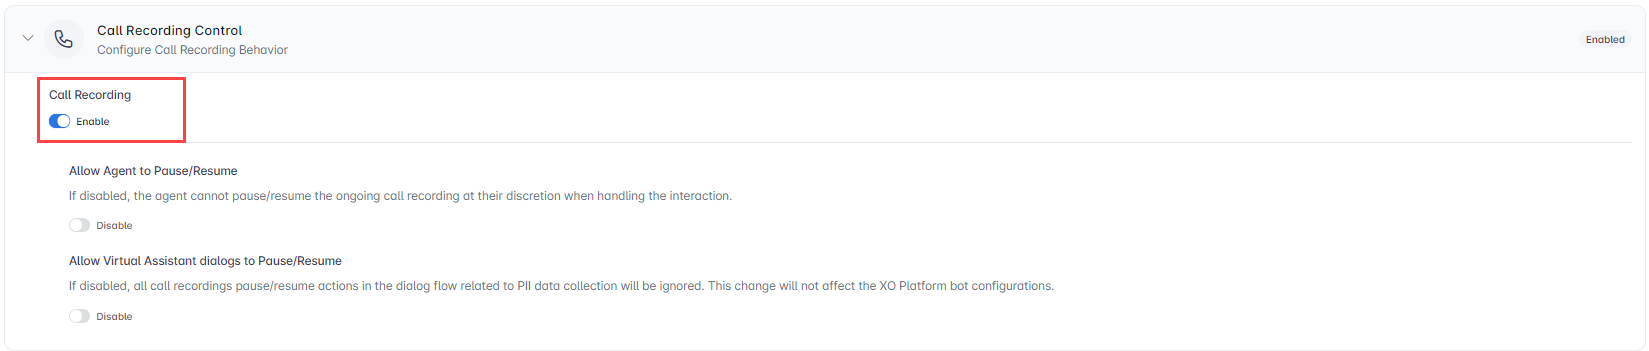
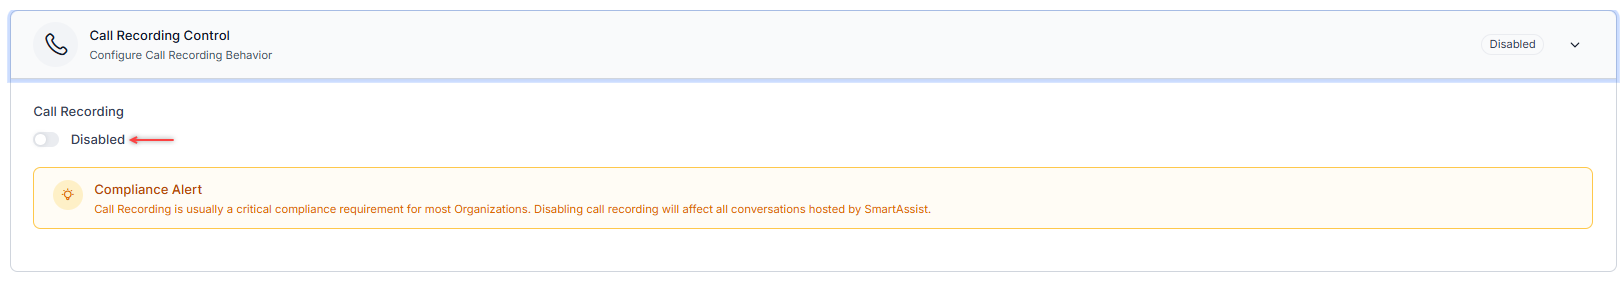
vg release updates

diff --git a/docs/xo/release-notes/11.x/voice-gateway.md b/docs/xo/release-notes/11.x/voice-gateway.md
@@ -2,6 +2,39 @@
 
 This document provides information on the feature updates and enhancements introduced in the **Voice Gateway** of AI for Service (XO) v11.x releases.
 
+## v11.18.0 September 27, 2025
+
+<u>Minor Release</u>
+
+This update includes enhancements and bug fixes. The key enhancements included in this release are summarized below.
+
+<font size="4">Text-to-Speech (TTS)</font>
+
+**Custom Voices for Eleven Labs TTS**
+
+When Eleven Labs TTS is selected in the Voice Name widget, a note now appears: “Want a custom voice? Submit a support ticket with your audio sample.” This provides a clear way for users to request a custom voice setup.
+
+<font size="4">Call Control Parameters</font>
+
+**Enhanced Alternate Language Support in Call Control**
+
+The node.alternate call control parameter supports additional parameters, including ttsLabel, in addition to the existing language and voiceName fields. This allows switching both ASR and TTS providers per language—for example, using ElevenLabs for English and Deepgram for Spanish—improving multilingual call control flexibility. [Learn more :octicons-arrow-right-24:](../../channels/voice-gateway/speech-customization.md#common-asr-parameters)
+
+<font size="4">Configuration</font>
+
+**Play Dial Tone Until AI Agent First Response**
+
+A new configuration option, Answer call on AI Agent first response, is available in  Automation AI → App Settings → Advanced Settings → System Settings → Answer Call on First Bot Response. When enabled, callers hear a dial tone if the AI Agent’s first response is delayed, preventing silence and reassuring them that the call is connected. The call remains active until the AI Agent responds, with duration controlled on the Session Border Controller (SBC) side. When disabled, the existing behavior continues, where callers hear silence until the AI Agent’s first response. [Learn more :octicons-arrow-right-24:](../../app-settings/advanced-settings/system-settings.md#answer-call-on-first-botai-agent-response)  
+<img src="../images/answer-call-rn.png" alt="Play Dial Tone until AI Agent Reponse" title="Play Dial Tone until AI Agent Reponse" style="border: 1px solid gray; zoom:70%;">
+
+<font size="4">API</font>
+
+**API to Start, Pause, Resume, and End/Stop Transcriptions and Call Recordings**
+
+The enhanced version of the Control Transcription API (v2) now supports managing call recordings, in addition to transcriptions, for third-party agent desktops. This API provides enhanced flexibility and control during live interactions, allowing agent desktops outside of Kore's ecosystem to manage transcriptions and recordings in accordance with business and regulatory requirements.
+
+<hr>
+
 ## v11.17.1 September 15, 2025
 
 <u> Patch Release </u>

diff --git a/docs/xo/app-settings/advanced-settings/system-settings.md b/docs/xo/app-settings/advanced-settings/system-settings.md
@@ -2,8 +2,15 @@
 
 ## Call Recording Control
 
-By default, Contact Center AI records all voice interactions. Contact Center AI admins can disable call recording for all voice interactions.  
-<img src="../images/call-recording-control.png" alt="Call Recording Control" title="Call Recording Control" style="border: 1px solid gray; zoom:70%;">
+By default, Contact Center AI records all voice interactions. Administrators can disable call recording for all voice interactions. 
+
+Steps to disable Call Recording Control:
+
+1. Go to Automation AI > App Settings > Advanced Settings > System Settings > Call Recording Control.  
+<img src="../images/call-recording-control-disabled.png" alt="Call Recording Control" title="Call Recording Control" style="border: 1px solid gray; zoom:70%;">
+
+Turn off the toggle to disable call recording for all voice interactions.
+<img src="../images/call-recording-control.png" alt="Call Recording Control Disabled" title="Call Recording Control Disabled" style="border: 1px solid gray; zoom:70%;">
 
 ## Answer Call on First Bot/AI Agent Response
 
@@ -11,7 +18,7 @@ The feature plays a dial tone to the caller if there is a delay before the AI Ag
 
 Steps to enable Answer Call on First Bot/AI Agent Response:
 
-1. Navigate to Automation AI → App Settings → Advanced Settings → System Settings → Answer Call on First Bot Response.  
+1. Navigate to Automation AI > App Settings > Advanced Settings > System Settings > Answer Call on First Bot Response.  
     <img src="../images/answer-call.png" alt="Answer Call on AI Agent Response" title="Answer Call on AI Agent Response" style="border: 1px solid gray; zoom:70%;">
 
 2. Turn on the toggle to enable the functionality.  

diff --git a/docs/xo/contactcenter/performance-management/slas-and-alerts.md b/docs/xo/contactcenter/performance-management/slas-and-alerts.md
@@ -15,7 +15,7 @@ The following information is displayed:
 Steps to create a new service level:
 
 1. Click the **+ New Service Level** button in the upper-right corner.  
-    <img src="../images/add-rule.png" alt="Add New Service Level" title="Add NEw Service Level" style="border: 1px solid gray; zoom:70%;">
+    <img src="../images/add-rule.png" alt="Add New Service Level" title="Add New Service Level" style="border: 1px solid gray; zoom:70%;">
 
 2. On the New Service Level Rule panel, enter a **Name** and **Description** for the service rule.  
     <img src="../images/sla-name-description.png" alt="SLA Name & Description" title="SLA Name & Description" style="border: 1px solid gray; zoom:70%;">
